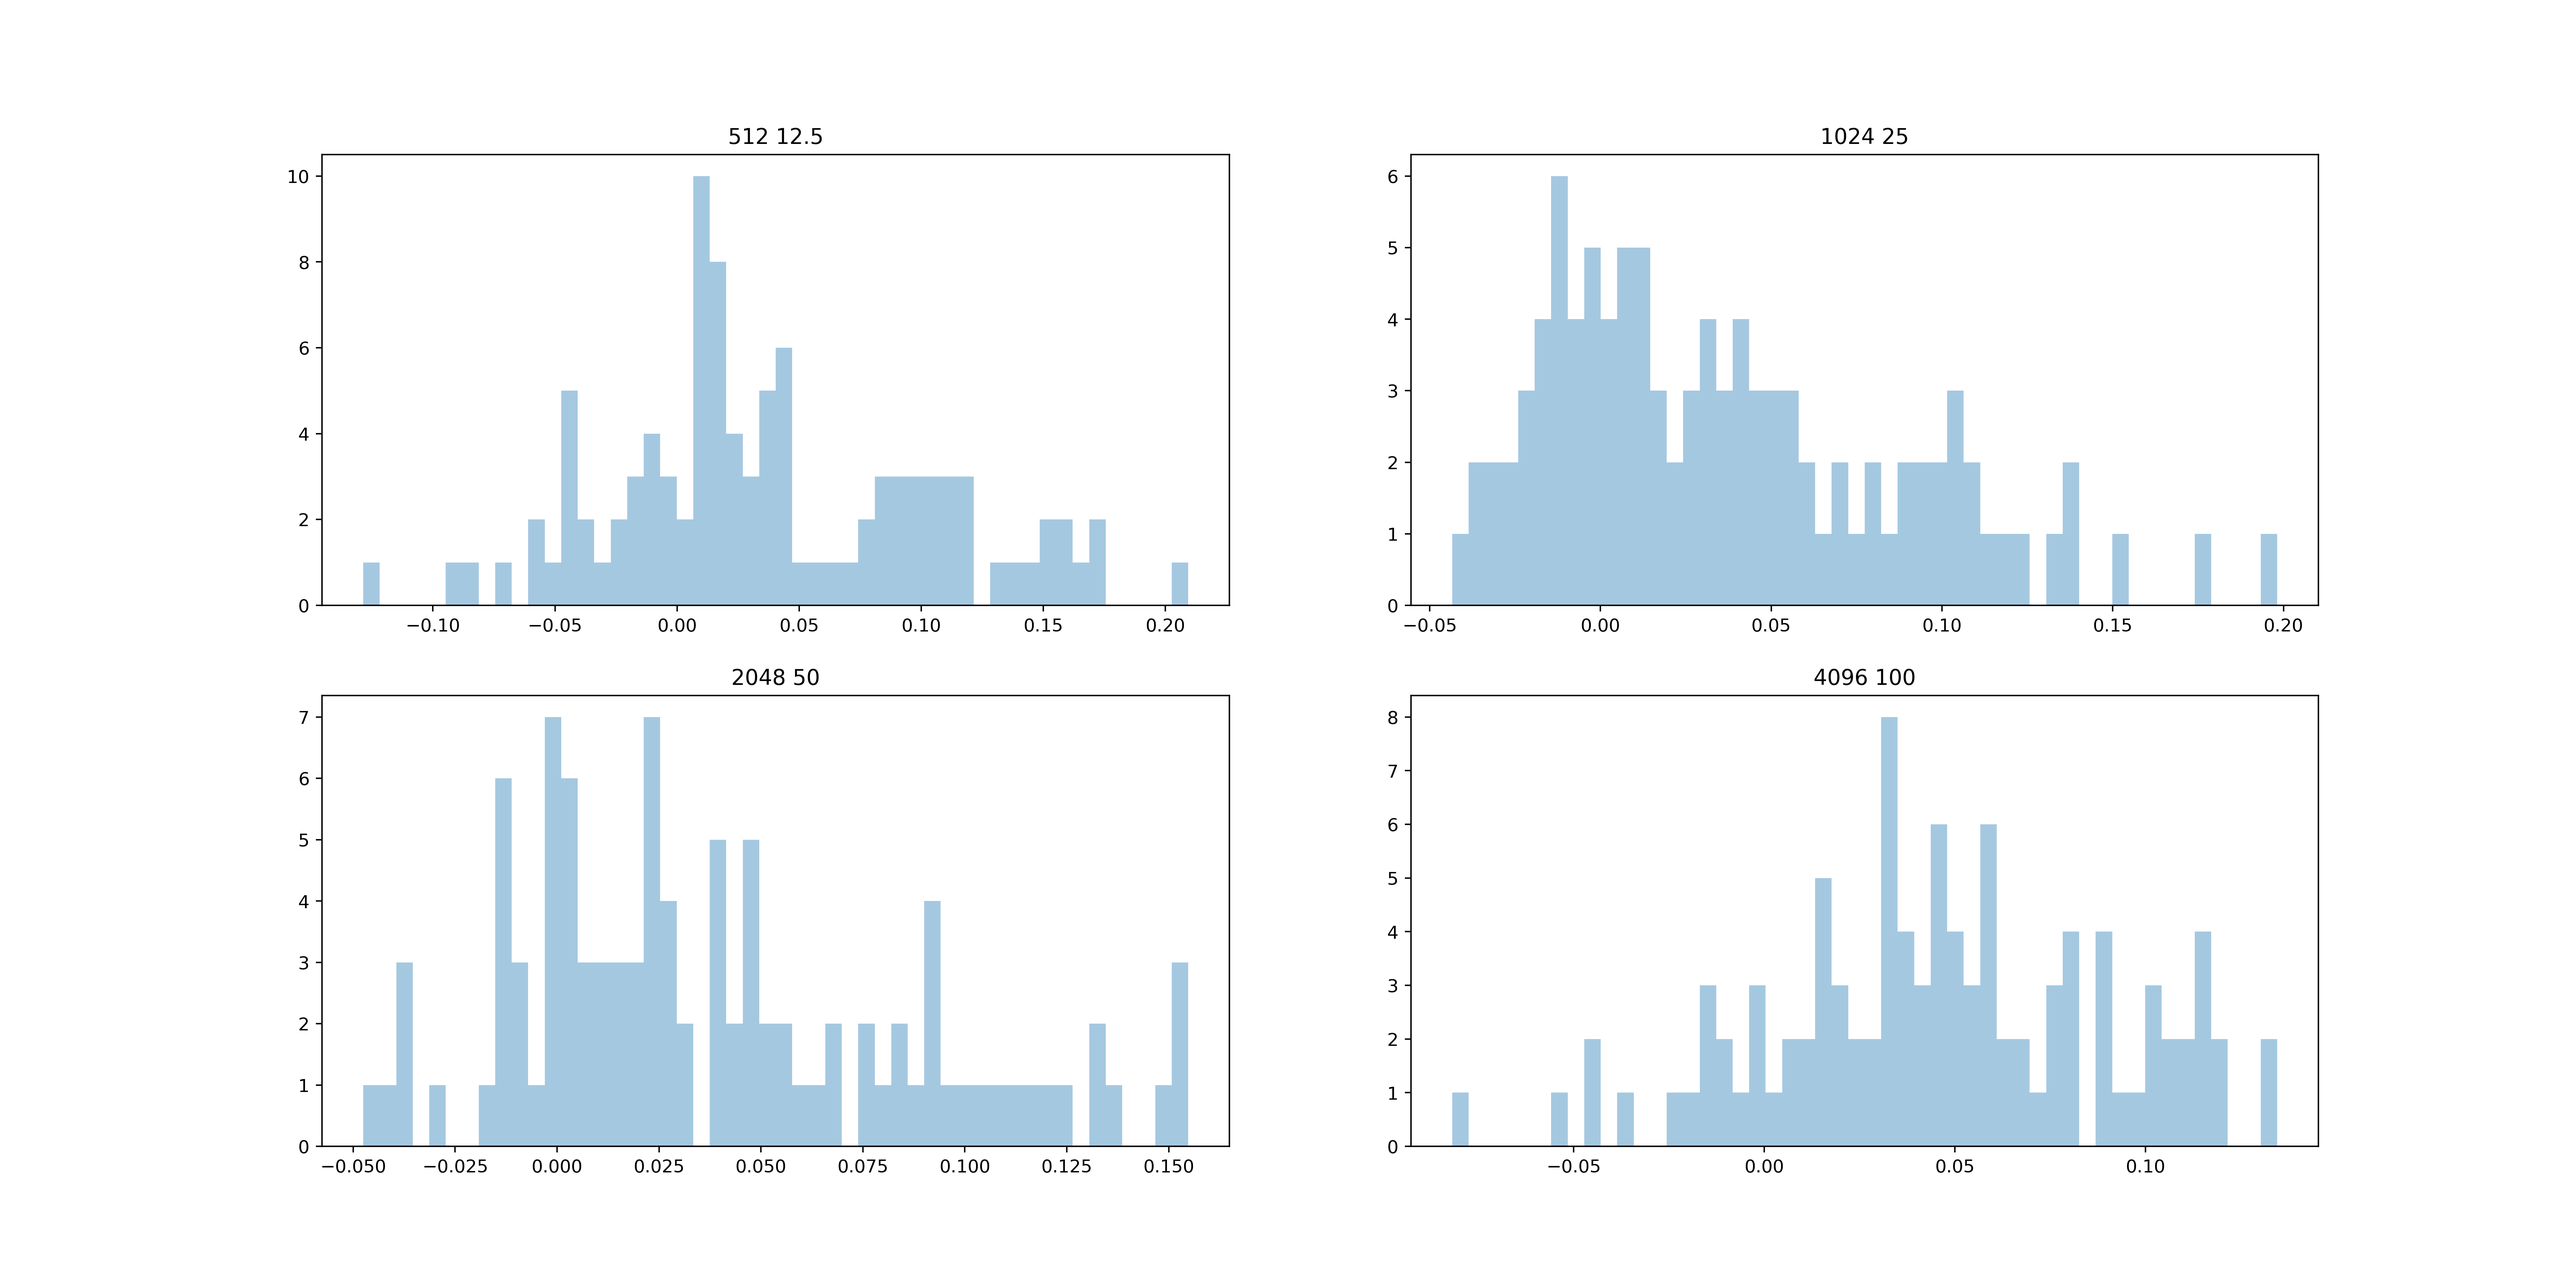
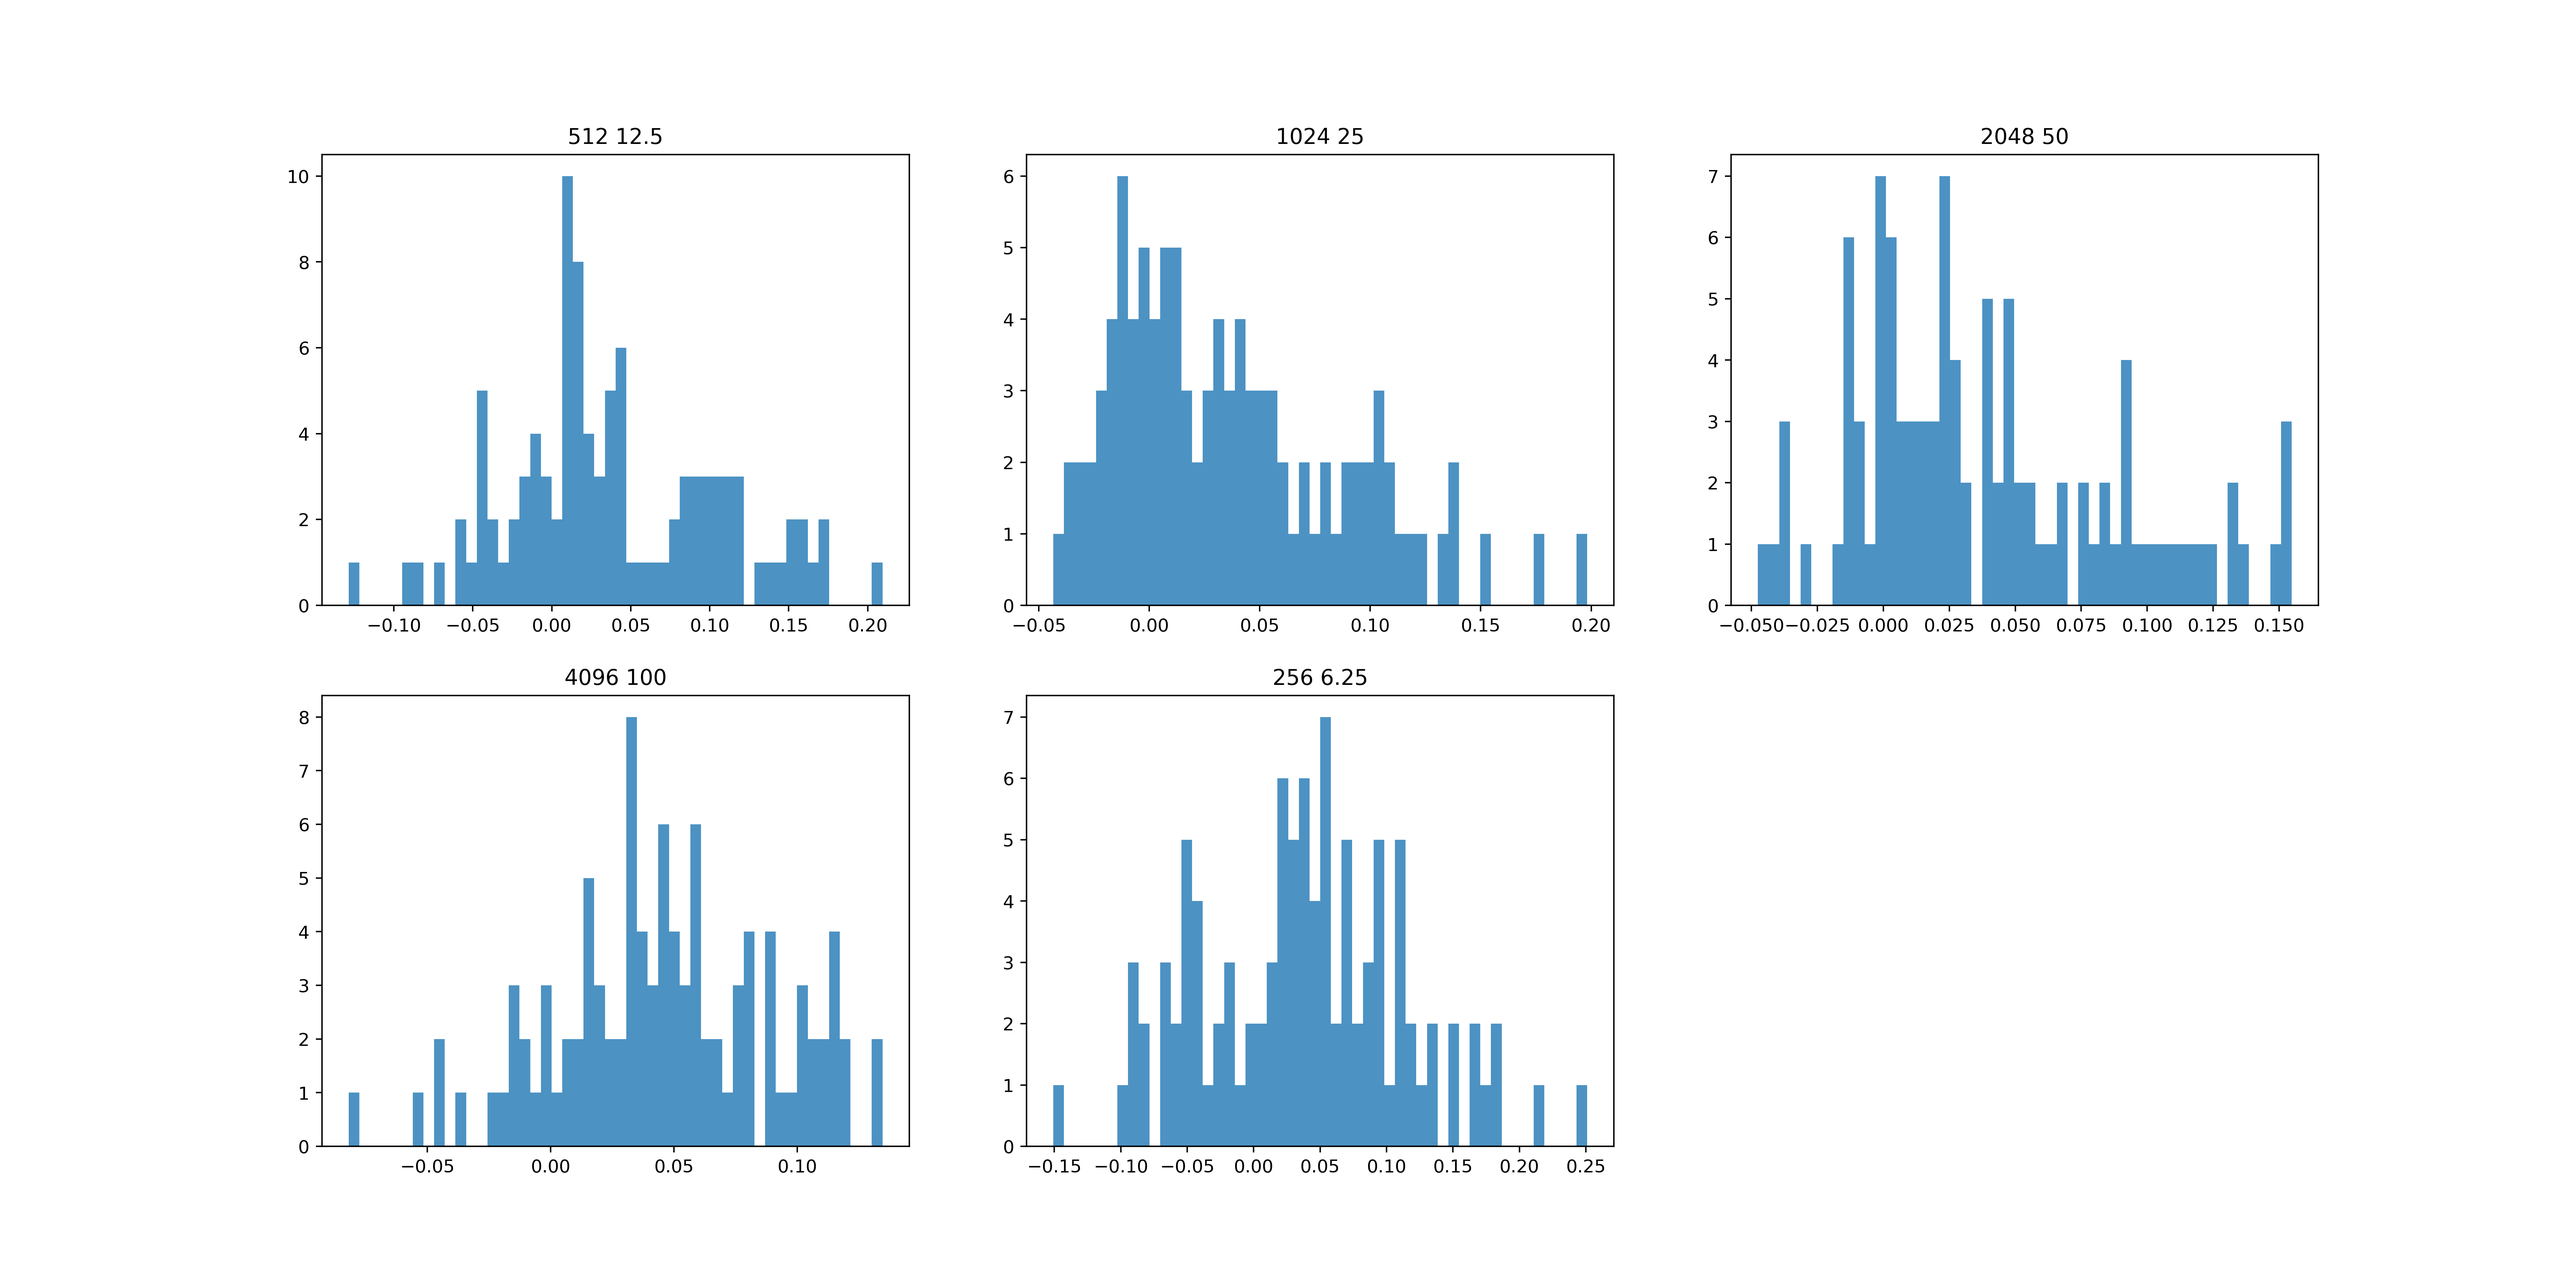
data_anal

diff --git a/paperdata/cri3/super.py b/paperdata/cri3/super.py
@@ -1,21 +1,25 @@
 import numpy as np
 import matplotlib.pyplot as plt
+from scipy.stats import norm
+import matplotlib.mlab as mlab
 
 folders = ["0.01","11.25","22.50","45.00"]
 b = 50
-a = 0.4
+a = 0.8
 for folder in folders:
     data0 = np.load(f"{folder}/Energy_512_{folder}.npy")
     data1 = np.load(f"{folder}/Energy_1024_{folder}.npy")
     data2 = np.load(f"{folder}/Energy_2048_{folder}.npy")
     data3 = np.load(f"{folder}/Energy_4096_{folder}.npy")
+    data4 = np.load(f"{folder}/Energy_256_{folder}.npy")
 
     fig = plt.figure(figsize=(20,10), dpi=400)
     plt.plot(-data0)
     plt.plot(-data1)
     plt.plot(-data2)
     plt.plot(-data3)
-    plt.legend(["12.5","25","50","100"])
+    plt.plot(-data4)
+    plt.legend(["12.5","25","50","100","6.25"])
     plt.title(f"Energy evolution at {folder}K")
     plt.savefig(f"En_{folder}.png")
     plt.close()
@@ -25,24 +29,30 @@ for folder in folders:
     plt.plot(-np.gradient(data1))
     plt.plot(-np.gradient(data2))
     plt.plot(-np.gradient(data3))
-    plt.legend(["12.5","25","50","100"])
+    plt.plot(-np.gradient(data4))
+
+
+    plt.legend(["12.5","25","50","100","6.25"])
     plt.title(f"Energy difference at {folder}K")
     plt.savefig(f"dE_{folder}.png")
     plt.close()
 
     fig = plt.figure(figsize=(20,10), dpi=400)
-    fig.add_subplot(221)
+    fig.add_subplot(231)
     plt.hist(-np.gradient(data0),bins=b, alpha=a)
     plt.title("512 12.5")
-    fig.add_subplot(222)
+    fig.add_subplot(232)
     plt.hist(-np.gradient(data1),bins=b, alpha=a)
     plt.title("1024 25")
-    fig.add_subplot(223)
+    fig.add_subplot(233)
     plt.hist(-np.gradient(data2),bins=b, alpha=a)
     plt.title("2048 50")
-    fig.add_subplot(224)
+    fig.add_subplot(234)
     plt.hist(-np.gradient(data3),bins=b, alpha=a)
     plt.title("4096 100")
+    fig.add_subplot(235)
+    plt.hist(-np.gradient(data4),bins=b, alpha=a)
+    plt.title("256 6.25")
     plt.savefig(f"<H>dE_{folder}.png")
     plt.close()
 
